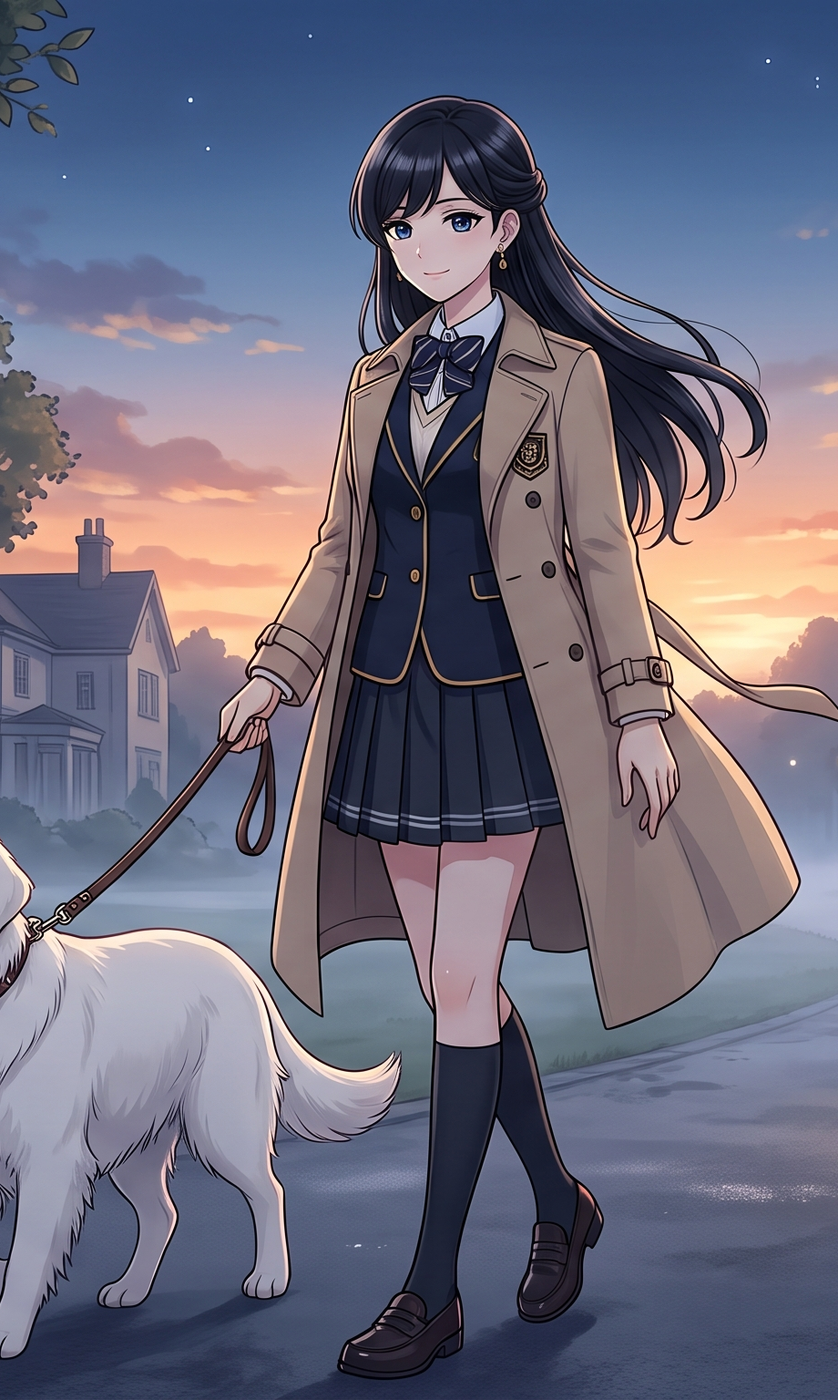
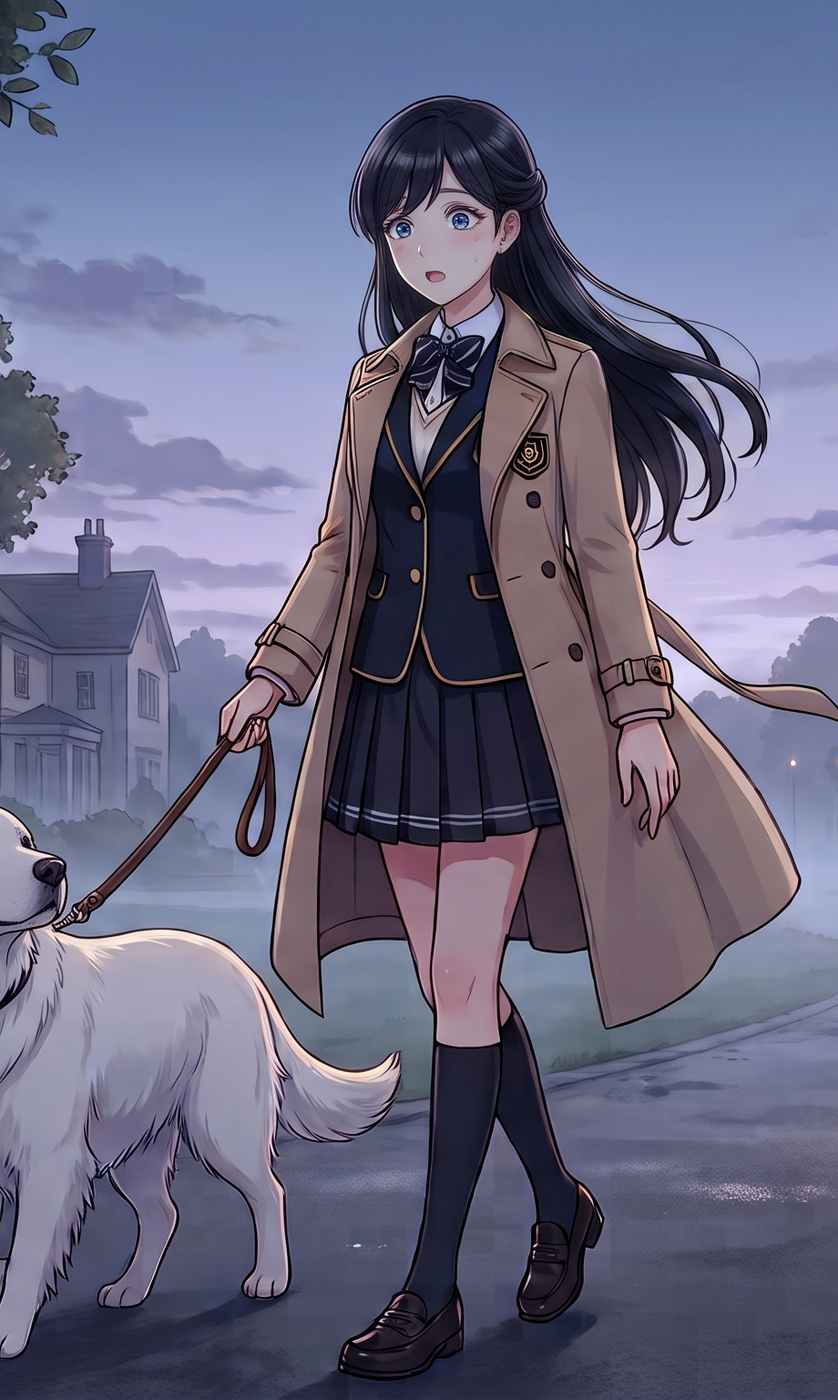
chore: 凛の表情差分を割り当て直し

diff --git a/flutter_bootstrap.js b/flutter_bootstrap.js
@@ -37,6 +37,6 @@ _flutter.buildConfig = {"engineRevision":"5a2a6a42cce67f965cf540fcecf616faca624a
 
 _flutter.loader.load({
   serviceWorkerSettings: {
-    serviceWorkerVersion: "3643283065" /* Flutter's service worker is deprecated and will be removed in a future Flutter release. */
+    serviceWorkerVersion: "3142481593" /* Flutter's service worker is deprecated and will be removed in a future Flutter release. */
   }
 });
